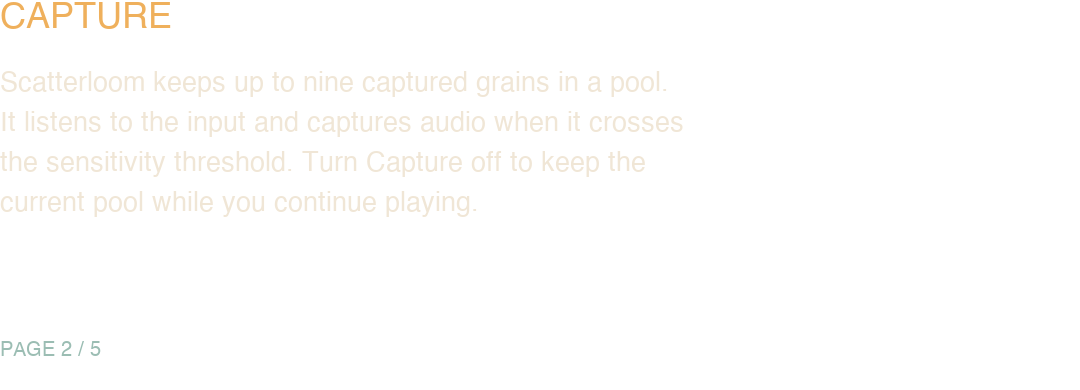
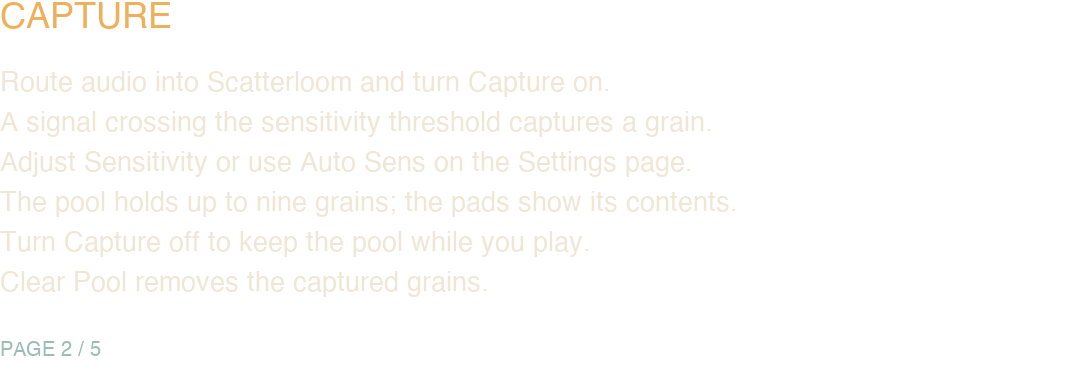
Expand built-in help text

diff --git a/mpc/info_merge.py b/mpc/info_merge.py
@@ -40,7 +40,7 @@ try! rep.representation(using: .png, properties: [:])!.write(to: URL(fileURLWith
     subprocess.run(['/usr/bin/swift','-',str(qr_raw)],input=swift,text=True,check=True)
     qr=Image.open(qr_raw).convert('RGBA')
     im=Image.new('RGBA',(qr.width+48,qr.height+48),'white'); im.alpha_composite(qr,(24,24)); im.save(skins/'info-tip-qr.png'); qr_raw.unlink()
-    pages=[('THANK YOU',['Thanks for trying Scatterloom!',"If you'd like to support its development,",'you can buy me a coffee:','ko-fi.com/elsewavedsp']),('CAPTURE',['Scatterloom keeps up to nine captured grains in a pool.','It listens to the input and captures audio when it crosses','the sensitivity threshold. Turn Capture off to keep the','current pool while you continue playing.']),('PATTERN',['Steps and Pulses create a Euclidean rhythm that decides','when grains play. For example, 7 pulses across 16 steps','spreads seven triggers through the pattern.']),('GRAIN SELECTION',['The Markov matrix controls which grain follows another.','Choose a pattern or tap a cell and adjust its probability.','The available grains depend on what is in the pool.']),('CREDITS AND LICENSES',['Scatterloom © Elsewave — MIT License',"RNBO © Cycling '74 — MIT runtime; Export/GPLv3 code",'MPC Plugin Builder SDK © inMusic — MIT','Queues © Cameron Desrochers — BSD; Jeff Preshing — zlib','JSON for Modern C++ © Niels Lohmann — MIT','Full license texts are included in the Licenses folder.'])]
+    pages=[('THANK YOU',['Thanks for trying Scatterloom!',"If you'd like to support its development,",'you can buy me a coffee:','ko-fi.com/elsewavedsp']),('CAPTURE',['Route audio into Scatterloom and turn Capture on.','A signal crossing the sensitivity threshold captures a grain.','Adjust Sensitivity or use Auto Sens on the Settings page.','The pool holds up to nine grains; the pads show its contents.','Turn Capture off to keep the pool while you play.','Clear Pool removes the captured grains.']),('PATTERN',['Steps set the length of the rhythmic cycle; Pulses set','how many triggers are spread across those steps.','For example, 7 pulses over 16 steps creates seven hits.','Division sets the rhythmic rate; Rotate shifts the pattern.','The ring shows the steps, playhead and grain lengths.','Grain Length controls how long each captured grain plays.']),('GRAIN SELECTION',['Recent Grains limits selection to the newest pool entries.','On Pattern, each row represents the current grain; each','column represents a possible next grain. The cell bars','show their probabilities: larger bars are more likely.','Choose a pattern preset, or tap a cell to adjust it.','Only captured grains within Recent Grains are available.']),('CREDITS AND LICENSES',['Scatterloom © Elsewave — MIT License',"RNBO © Cycling '74 — MIT runtime; Export/GPLv3 code",'MPC Plugin Builder SDK © inMusic — MIT','Queues © Cameron Desrochers — BSD; Jeff Preshing — zlib','JSON for Modern C++ © Niels Lohmann — MIT','Full license texts are included in the Licenses folder.'])]
     items=[]
     for idx,(title,lines) in enumerate(pages):
         im=Image.new('RGBA',(1080,390),(0,0,0,0)); d=ImageDraw.Draw(im)
